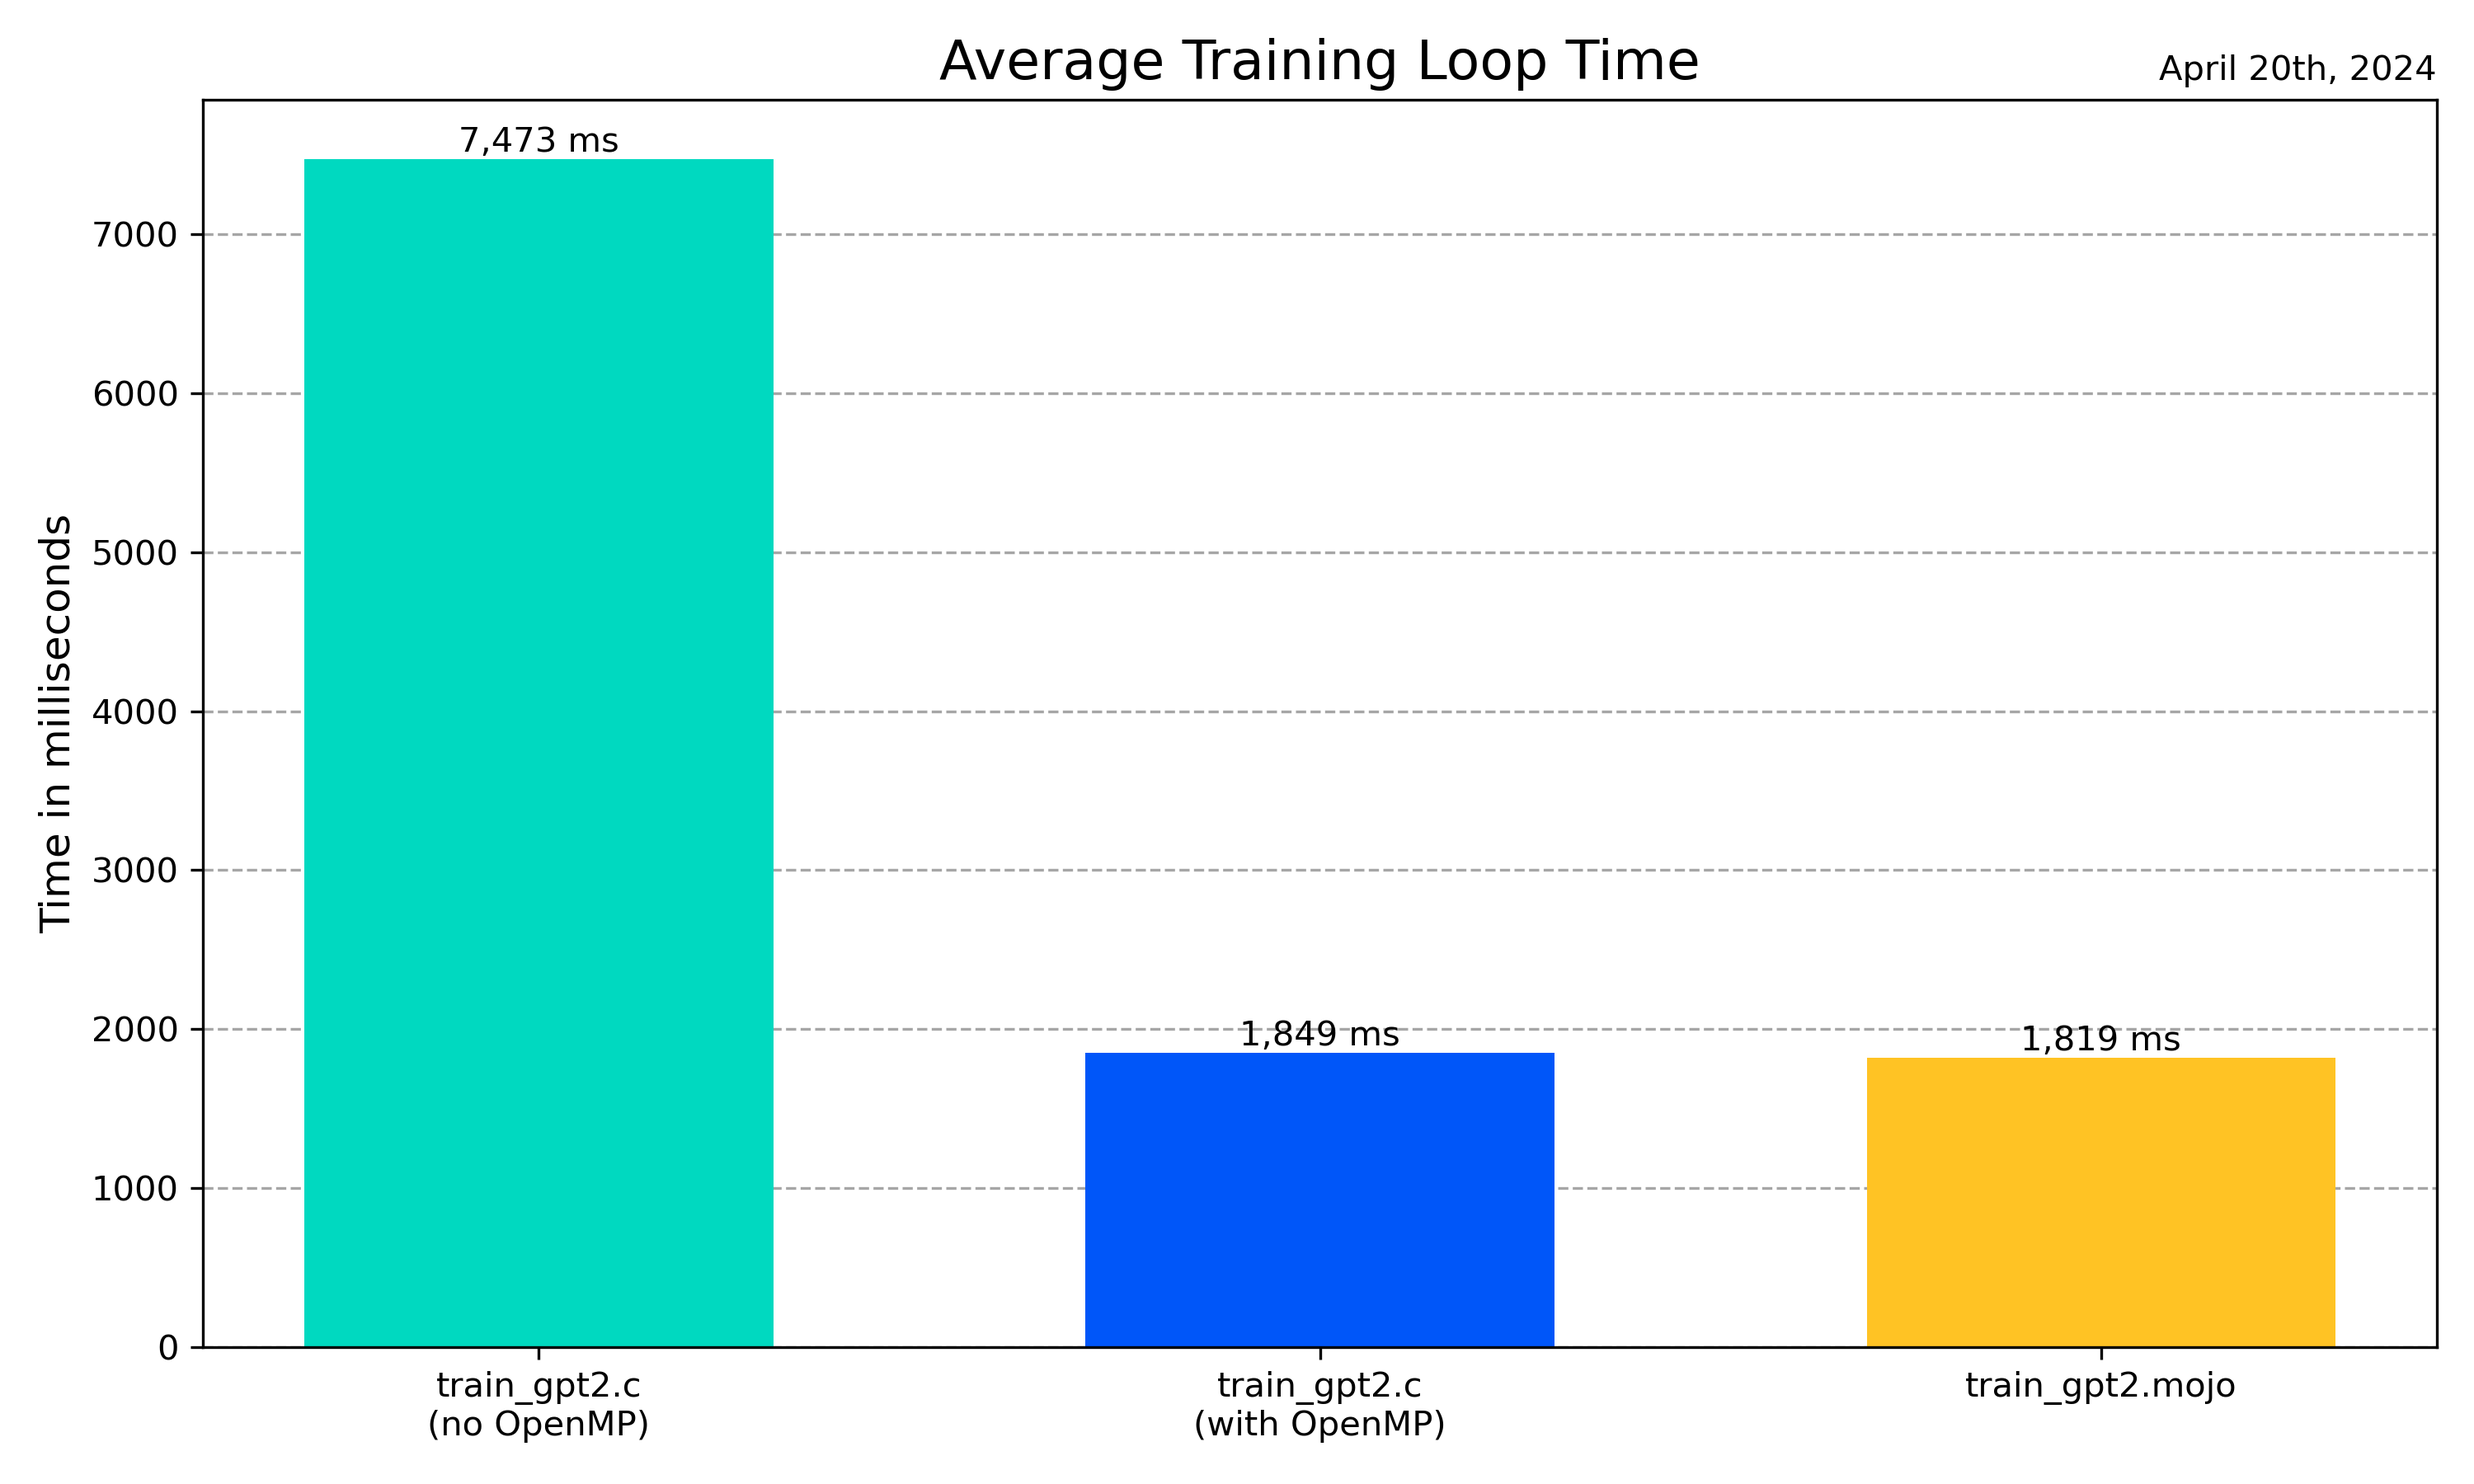
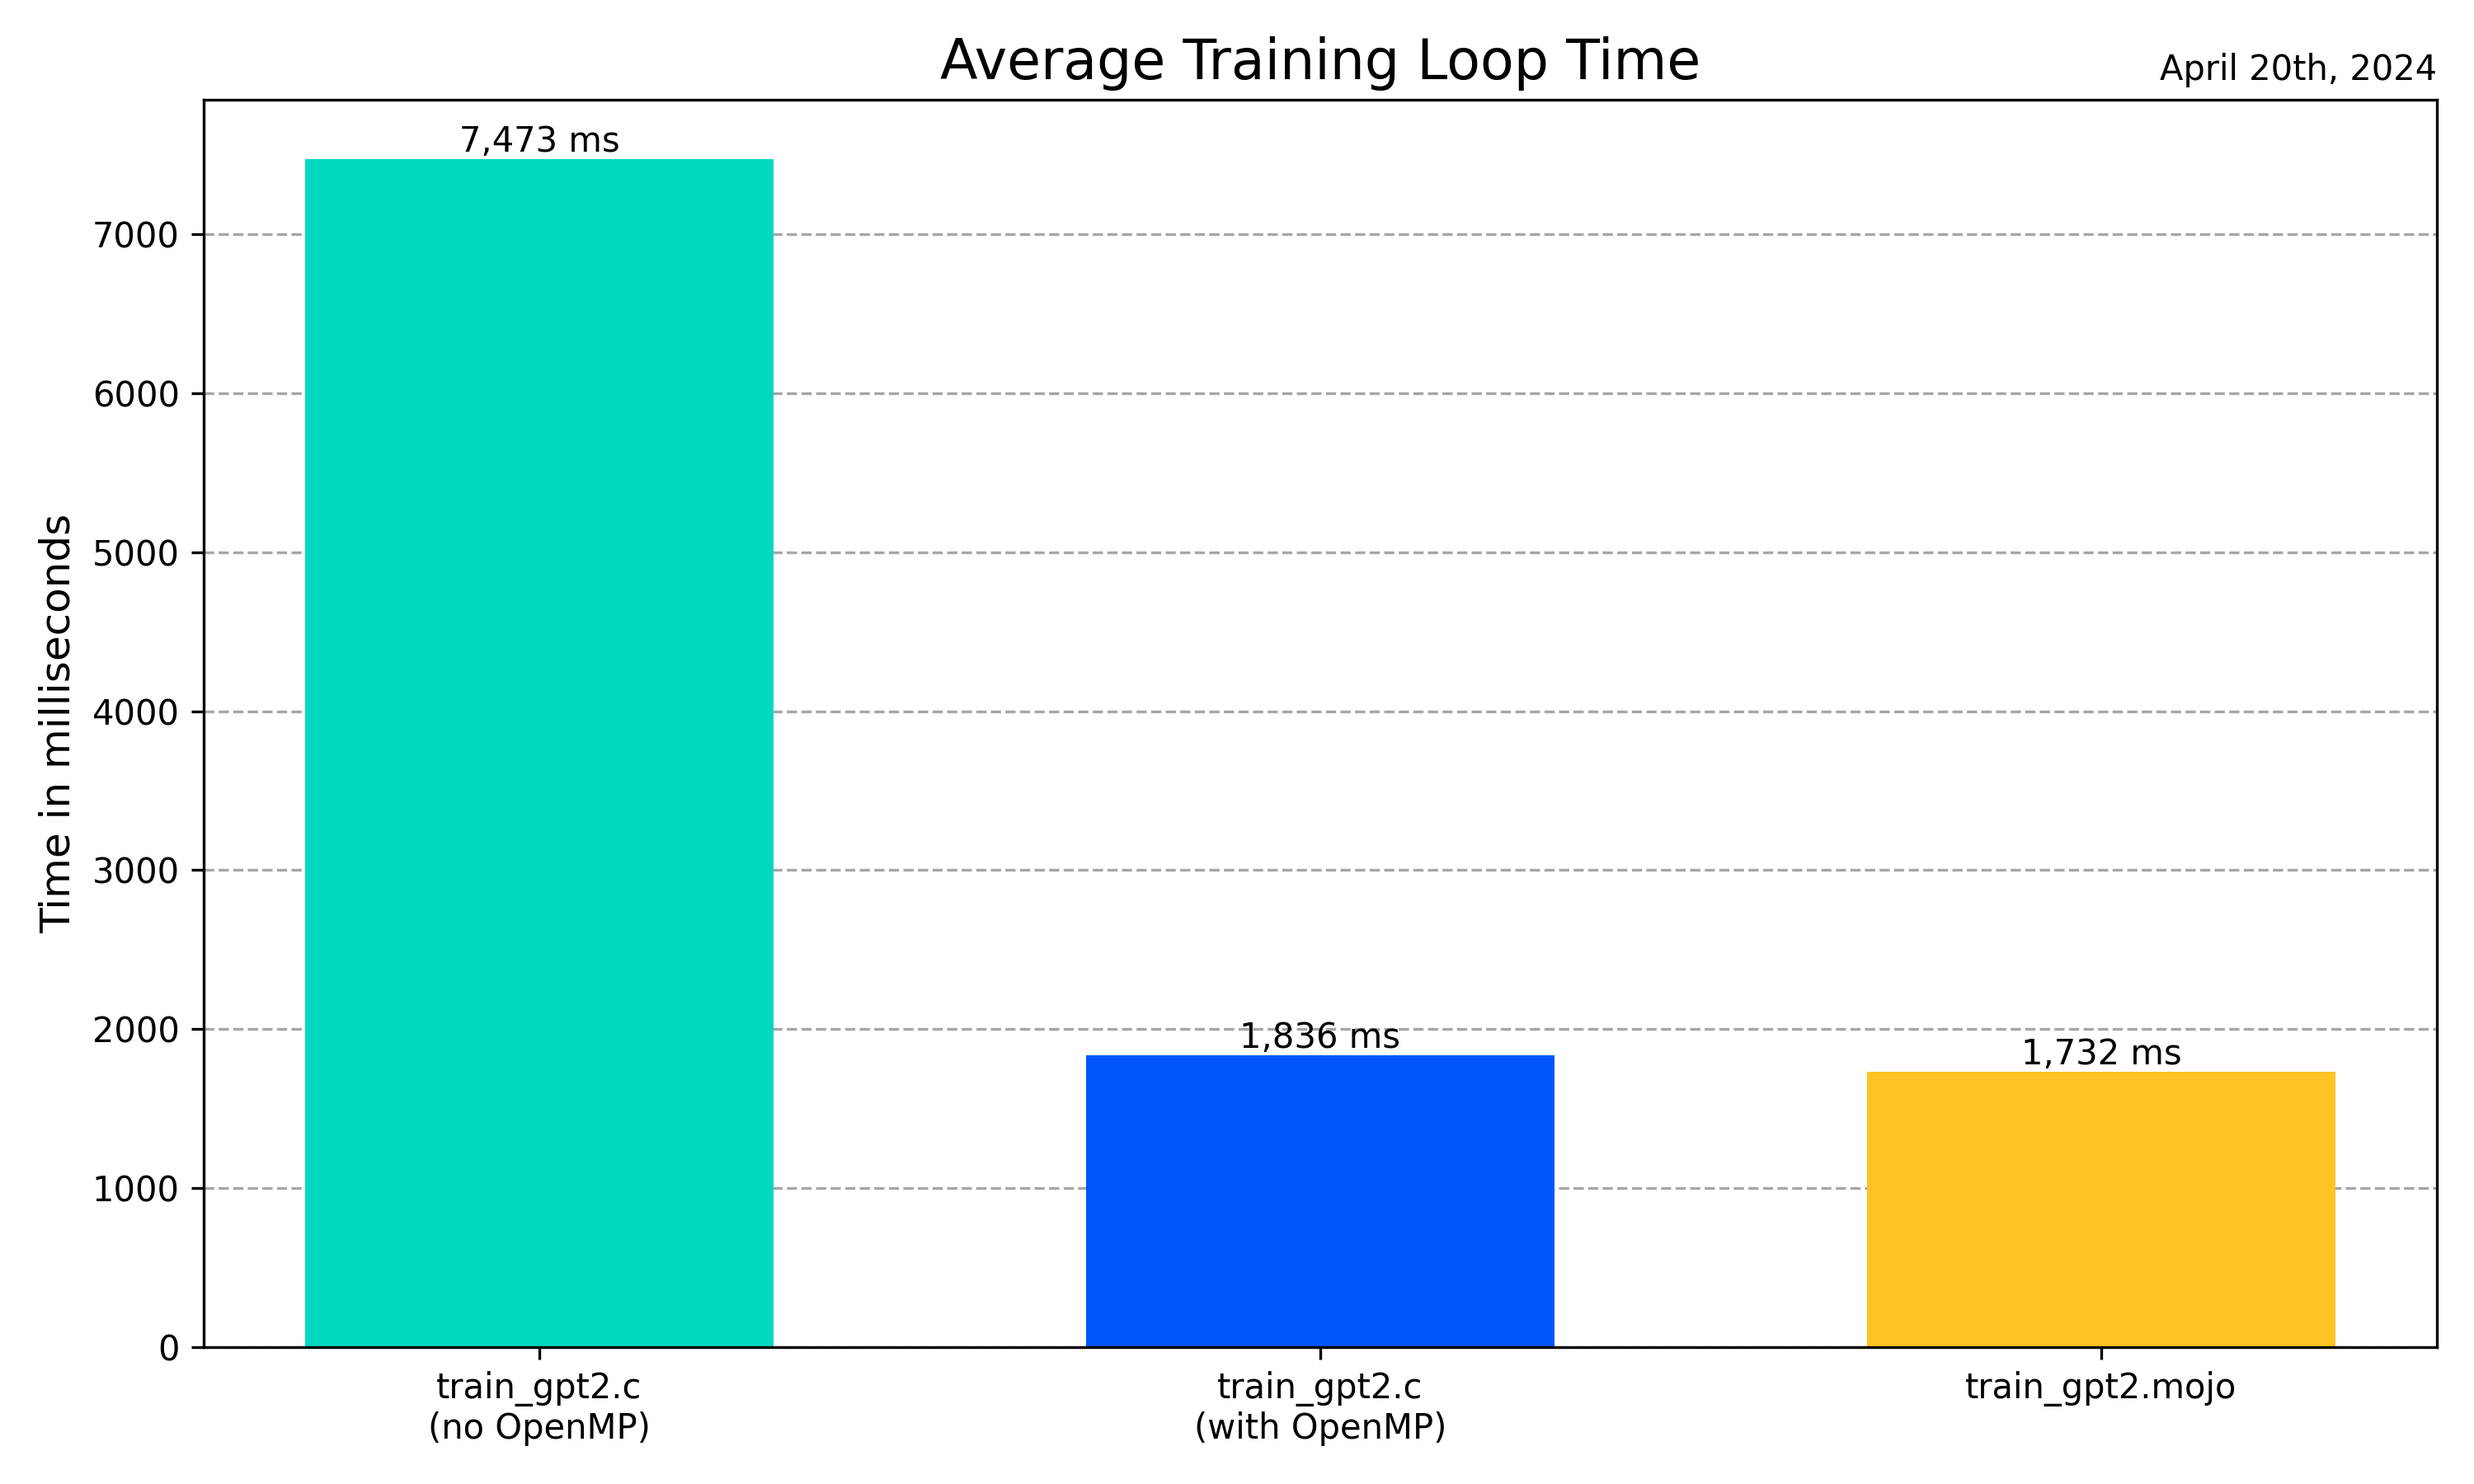
benchmark update

diff --git a/README.md b/README.md
@@ -48,8 +48,8 @@ Basic benchmark results: (M2 MacBook Pro)
 
 | Implementation             | Average Training Loop Time |
 |----------------------------|----------------------------|
-| train_gpt2.mojo            | 1819 ms                    |
-| train_gpt2.c (with OpenMP) | 1849 ms                    |
+| train_gpt2.mojo            | 1732 ms                    |
+| train_gpt2.c (with OpenMP) | 1836 ms                    |
 | train_gpt2.c (no OpenMP)   | 7473 ms                    |
 
 !['Training Loop Times'](imgs/training_loop_times_chart.png)
